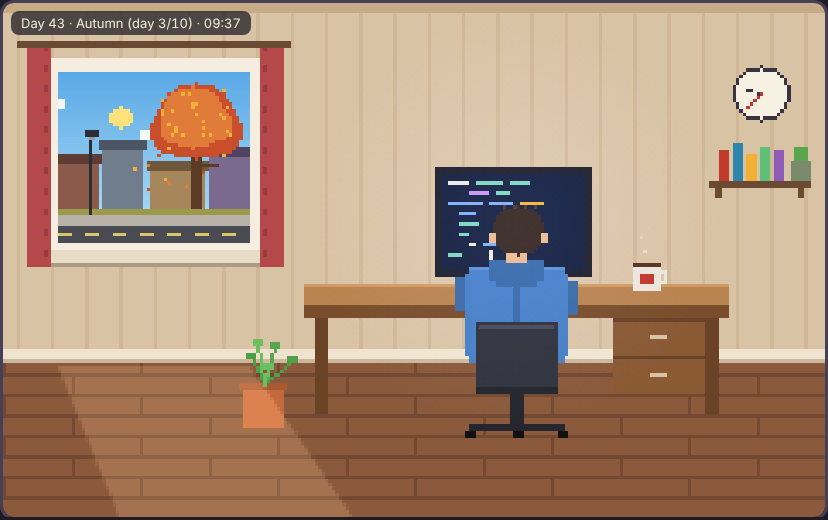
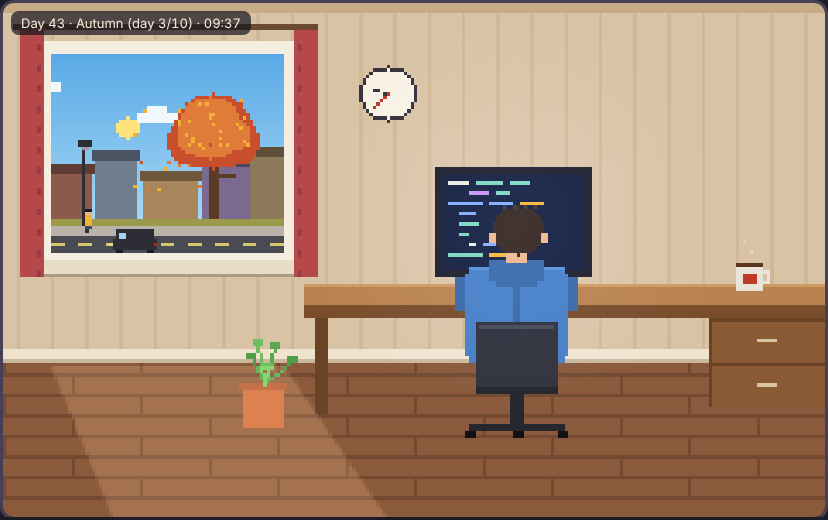
Pixel preview tweaks: bigger window, cars and people, no shelf, clock moved, desk to right edge
Claude-Session: https://claude.ai/code/session_01Nr4XFAQjeaJqdtUzH57z6i

diff --git a/preview/room-preview.html b/preview/room-preview.html
@@ -130,7 +130,7 @@ function clockStr(t) { // sunrise at 06:00
 }
 
 // ---------- window / outside ----------
-const WX = 16, WY = 20, WW = 56, WH = 50;
+const WX = 14, WY = 15, WW = 68, WH = 58;
 const stars = (() => { const r = rnd(7); return Array.from({ length: 22 }, () => [WX + r() * WW, WY + r() * (WH - 22), r()]); })();
 let particles = [];
 const SEASONS = ['Spring', 'Summer', 'Autumn', 'Winter'];
@@ -163,7 +163,7 @@ function drawOutside(time, sk) {
   }
   const gy = WY + WH - 10; // ground line
   // houses across the street
-  const houses = [[WX - 2, 14, 13, '#8c5a4a', '#5e3b33'], [WX + 13, 12, 17, '#6f7d8c', '#4b5563'], [WX + 27, 16, 11, '#a7865c', '#6e573b'], [WX + 44, 14, 15, '#7a6a8f', '#4f4560']];
+  const houses = [[WX - 2, 14, 13, '#8c5a4a', '#5e3b33'], [WX + 13, 12, 17, '#6f7d8c', '#4b5563'], [WX + 27, 16, 11, '#a7865c', '#6e573b'], [WX + 44, 14, 15, '#7a6a8f', '#4f4560'], [WX + 58, 12, 18, '#8c7a5a', '#5e4f3a']];
   for (const [x, w, h, c, roof] of houses) {
     R(x, gy - h, w, h, c);
     R(x - 1, gy - h - 3, w + 2, 3, roof);
@@ -179,8 +179,11 @@ function drawOutside(time, sk) {
   const lx = WX + 9;
   R(lx, gy - 22, 1, 24, '#2d2d35'); R(lx - 1, gy - 23, 4, 2, '#2d2d35');
   // tree
-  drawTree(WX + 40, gy, time);
+  drawTraffic(gy, time, 'people');
+  drawTree(WX + 47, gy, time);
+  drawTraffic(gy, time, 'cars');
   // darkness
+  const headlights = drawTraffic.lights;
   if (night > 0) { g.fillStyle = `rgba(10,14,40,${night * 0.55})`; g.fillRect(WX, WY + 22, WW, WH); }
   // lit windows & lamp
   if (night > 0.2) {
@@ -192,6 +195,12 @@ function drawOutside(time, sk) {
     g.fillStyle = grd; g.fillRect(lx - 14, gy - 35, 30, 40);
     R(lx, gy - 21, 2, 1, `rgba(255,236,170,${night})`);
   } else { R(lx, gy - 21, 2, 1, '#9a9aa5'); }
+  for (const [x, y, dir] of headlights) {
+    const hg = g.createRadialGradient(x, y, 0, x, y, 8);
+    hg.addColorStop(0, `rgba(255,240,180,${0.7 * night})`); hg.addColorStop(1, 'rgba(255,240,180,0)');
+    g.fillStyle = hg; g.fillRect(dir > 0 ? x : x - 9, y - 4, 9, 8);
+    R(x, y, 1, 1, `rgba(255,250,210,${Math.max(0.3, night)})`);
+  }
   // particles
   updateParticles(time);
   for (const p of particles) R(p.x, p.y, p.s, p.s, p.c);
@@ -217,6 +226,52 @@ function drawTree(x, gy, time) {
   for (let i = 0; i < 26; i++) P(cx - 10 + r() * 20, cy - 9 + r() * 16, pal[2]);
   if (state.season === 0) for (let i = 0; i < 18; i++) P(cx - 10 + r() * 20, cy - 9 + r() * 16, i % 2 ? '#f7b5cf' : '#fde2ec');
 }
+
+// ---------- cars & people ----------
+const traffic = { cars: [], people: [], nextCar: 0.5, nextPerson: 0, last: 0 };
+const CAR_COLORS = ['#d9534f', '#3f6f8f', '#f2b134', '#5fbf77', '#e9e4da', '#8e5bb5', '#2d2d35'];
+const SHIRTS = ['#c0392b', '#2e86ab', '#f2b134', '#5fbf77', '#8e5bb5', '#e08a3c', '#e9e4da'];
+function drawTraffic(gy, time, kind) {
+  const dt = Math.min(0.1, Math.max(0, time - traffic.last));
+  if (kind === 'people') {
+    traffic.last = time;
+    traffic.nextCar -= dt; traffic.nextPerson -= dt;
+    if (traffic.nextCar <= 0) {
+      const dir = Math.random() < 0.5 ? 1 : -1;
+      traffic.cars.push({ x: dir > 0 ? WX - 14 : WX + WW + 2, dir, v: 18 + Math.random() * 14, c: CAR_COLORS[Math.random() * CAR_COLORS.length | 0], van: Math.random() < 0.25 });
+      traffic.nextCar = 6 + Math.random() * 14;
+    }
+    if (traffic.nextPerson <= 0) {
+      const dir = Math.random() < 0.5 ? 1 : -1;
+      traffic.people.push({ x: dir > 0 ? WX - 3 : WX + WW + 1, dir, v: 3 + Math.random() * 2, shirt: SHIRTS[Math.random() * SHIRTS.length | 0], hair: ['#3b2a20', '#e0b050', '#1a1a1a', '#a0522d'][Math.random() * 4 | 0], dog: Math.random() < 0.2, ph: Math.random() * 6 });
+      traffic.nextPerson = 8 + Math.random() * 12;
+    }
+    for (const p of traffic.people) p.x += p.dir * p.v * dt;
+    for (const c of traffic.cars) c.x += c.dir * c.v * dt;
+    traffic.people = traffic.people.filter(p => p.x > WX - 6 && p.x < WX + WW + 6);
+    traffic.cars = traffic.cars.filter(c => c.x > WX - 16 && c.x < WX + WW + 16);
+    for (const p of traffic.people) {
+      const x = Math.round(p.x), step = Math.floor(time * 4 + p.ph) % 2, fy = gy + 4;
+      R(x, fy - 1, 1, 1, '#2d2d35'); R(x + 1, fy - 1 + step, 1, 1 - step, '#2d2d35'); // legs
+      R(x, fy - 2, 2, 1, '#3d4a6b'); R(x, fy - 5, 2, 3, p.shirt); R(x, fy - 7, 2, 2, '#e8b48a'); R(x, fy - 7, 2, 1, p.hair);
+      if (state.season === 3) R(x, fy - 7, 2, 1, '#c0392b'); // winter hats
+      if (p.dog) { const dx = x + p.dir * 4; R(dx, fy - 2, 3, 1, '#8a5a35'); R(dx + (p.dir > 0 ? 2 : 0), fy - 3, 1, 1, '#8a5a35'); P(dx + step, fy - 1, '#8a5a35'); }
+    }
+  } else {
+    drawTraffic.lights = [];
+    for (const c of traffic.cars) {
+      const x = Math.round(c.x), y = gy + 5, len = c.van ? 13 : 11;
+      R(x, y + 1, len, 3, c.c);
+      if (c.van) { R(x + 1, y - 2, len - 2, 3, c.c); R(c.dir > 0 ? x + len - 4 : x + 2, y - 1, 2, 2, '#9fd3f0'); }
+      else { R(x + 2, y - 1, len - 4, 2, c.c); R(x + 3, y - 1, 2, 1, '#9fd3f0'); R(x + len - 5, y - 1, 2, 1, '#9fd3f0'); }
+      R(x + 1, y + 4, 2, 1, '#1a1a22'); R(x + len - 3, y + 4, 2, 1, '#1a1a22');
+      const hx = c.dir > 0 ? x + len : x - 1;
+      drawTraffic.lights.push([hx, y + 2, c.dir]);
+      R(c.dir > 0 ? x : x + len - 1, y + 2, 1, 1, '#a02f24');
+    }
+  }
+}
+drawTraffic.lights = [];
 
 let lastPT = 0;
 function updateParticles(time) {
@@ -256,7 +311,7 @@ function drawRoomBack(time) {
     R(cx, WY - 7, 7, WH + 14, '#b5484a');
     for (let y = WY - 7; y < WY + WH + 7; y += 1) if ((y % 6) < 2) P(cx + (dir > 0 ? 5 : 1), y, '#9a3a3d');
   }
-  R(WX - 12, WY - 9, WW + 24, 2, '#6b4a33');
+  R(WX - 11, WY - 9, WW + 21, 2, '#6b4a33');
   // rug
   if (state.upgrades) {
     g.fillStyle = '#3f6f8f'; ellipse(152, 132, 52, 10);
@@ -264,13 +319,8 @@ function drawRoomBack(time) {
     g.fillStyle = '#3f6f8f'; ellipse(152, 132, 40, 6.5);
     g.fillStyle = '#5b8fb0'; ellipse(152, 132, 30, 4);
   }
-  // shelf + books
-  R(206, 52, 30, 2, '#6b4a33'); R(208, 54, 2, 3, '#6b4a33'); R(232, 54, 2, 3, '#6b4a33');
-  const books = [['#c0392b', 9], ['#2e86ab', 11], ['#f2b134', 8], ['#5fbf77', 10], ['#8e5bb5', 9]];
-  let bx = 209; for (const [c, h] of books) { R(bx, 52 - h, 3, h, c); bx += 4; }
-  R(bx + 1, 46, 6, 6, '#7a8a6a'); R(bx + 2, 42, 4, 4, '#5aa64f');
   // wall clock showing sim time
-  const ccx = 221, ccy = 26; disc(ccx, ccy, 8, '#3a3340'); disc(ccx, ccy, 7, '#f7f1e3');
+  const ccx = 112, ccy = 26; disc(ccx, ccy, 8, '#3a3340'); disc(ccx, ccy, 7, '#f7f1e3');
   const hrs = (state.t * 24 + 6) % 12, mins = ((state.t * 24 + 6) % 1) * 60;
   line(ccx, ccy, ccx + Math.sin(hrs / 12 * 2 * Math.PI) * 4, ccy - Math.cos(hrs / 12 * 2 * Math.PI) * 4, '#3a3340');
   line(ccx, ccy, ccx + Math.sin(mins / 60 * 2 * Math.PI) * 6, ccy - Math.cos(mins / 60 * 2 * Math.PI) * 6, '#c0392b');
@@ -281,18 +331,18 @@ function drawRoomBack(time) {
     R(180, 39, 16, 2, '#e8d7b8');
   }
   // desk
-  R(88, 82, 124, 6, '#b9834f'); R(88, 82, 124, 1, '#cf9963');
-  R(88, 88, 124, 4, '#7a4e2c');
-  R(91, 92, 4, 28, '#6a4226'); R(205, 92, 4, 28, '#6a4226');
-  R(178, 92, 27, 22, '#8a5a35'); R(178, 92, 27, 1, '#6a4226'); R(178, 103, 27, 1, '#6a4226');
-  R(189, 97, 5, 1, '#d9c3a5'); R(189, 108, 5, 1, '#d9c3a5');
+  R(88, 82, W - 88, 6, '#b9834f'); R(88, 82, W - 88, 1, '#cf9963');
+  R(88, 88, W - 88, 4, '#7a4e2c');
+  R(91, 92, 4, 28, '#6a4226');
+  R(206, 92, 34, 26, '#8a5a35'); R(206, 92, 34, 1, '#6a4226'); R(206, 105, 34, 1, '#6a4226'); R(206, 92, 1, 26, '#6a4226');
+  R(220, 98, 6, 1, '#d9c3a5'); R(220, 111, 6, 1, '#d9c3a5');
   // monitor(s)
   R(126, 48, 46, 32, '#24232d'); R(146, 80, 6, 3, '#24232d'); R(140, 82, 18, 1, '#1a1a22');
   if (state.upgrades) { R(174, 52, 32, 26, '#24232d'); R(188, 78, 4, 4, '#24232d'); R(184, 81, 12, 1, '#1a1a22'); }
   // keyboard
   R(132, 83, 34, 3, '#c9c6cf'); R(132, 85, 34, 1, '#99969f');
   // mug
-  const mx = state.upgrades ? 112 : 184;
+  const mx = 214;
   R(mx, 76, 8, 8, '#e9e4da'); R(mx, 76, 8, 1, '#5a3420'); R(mx + 8, 78, 2, 1, '#e9e4da'); R(mx + 9, 78, 1, 4, '#e9e4da'); R(mx + 8, 81, 2, 1, '#e9e4da');
   R(mx + 2, 79, 4, 3, '#c0392b');
   // desk lamp
@@ -389,7 +439,7 @@ function drawGlows(time, sk) {
   }
   g.globalCompositeOperation = 'source-over';
   // steam
-  const mx = state.upgrades ? 112 : 184;
+  const mx = 214;
   for (let i = 0; i < 3; i++) {
     const k = ((time * 0.6 + i / 3) % 1);
     P(mx + 3 + Math.round(Math.sin(time * 2 + i * 2) * 1.5), 74 - k * 10, `rgba(255,255,255,${0.5 * (1 - k)})`);
